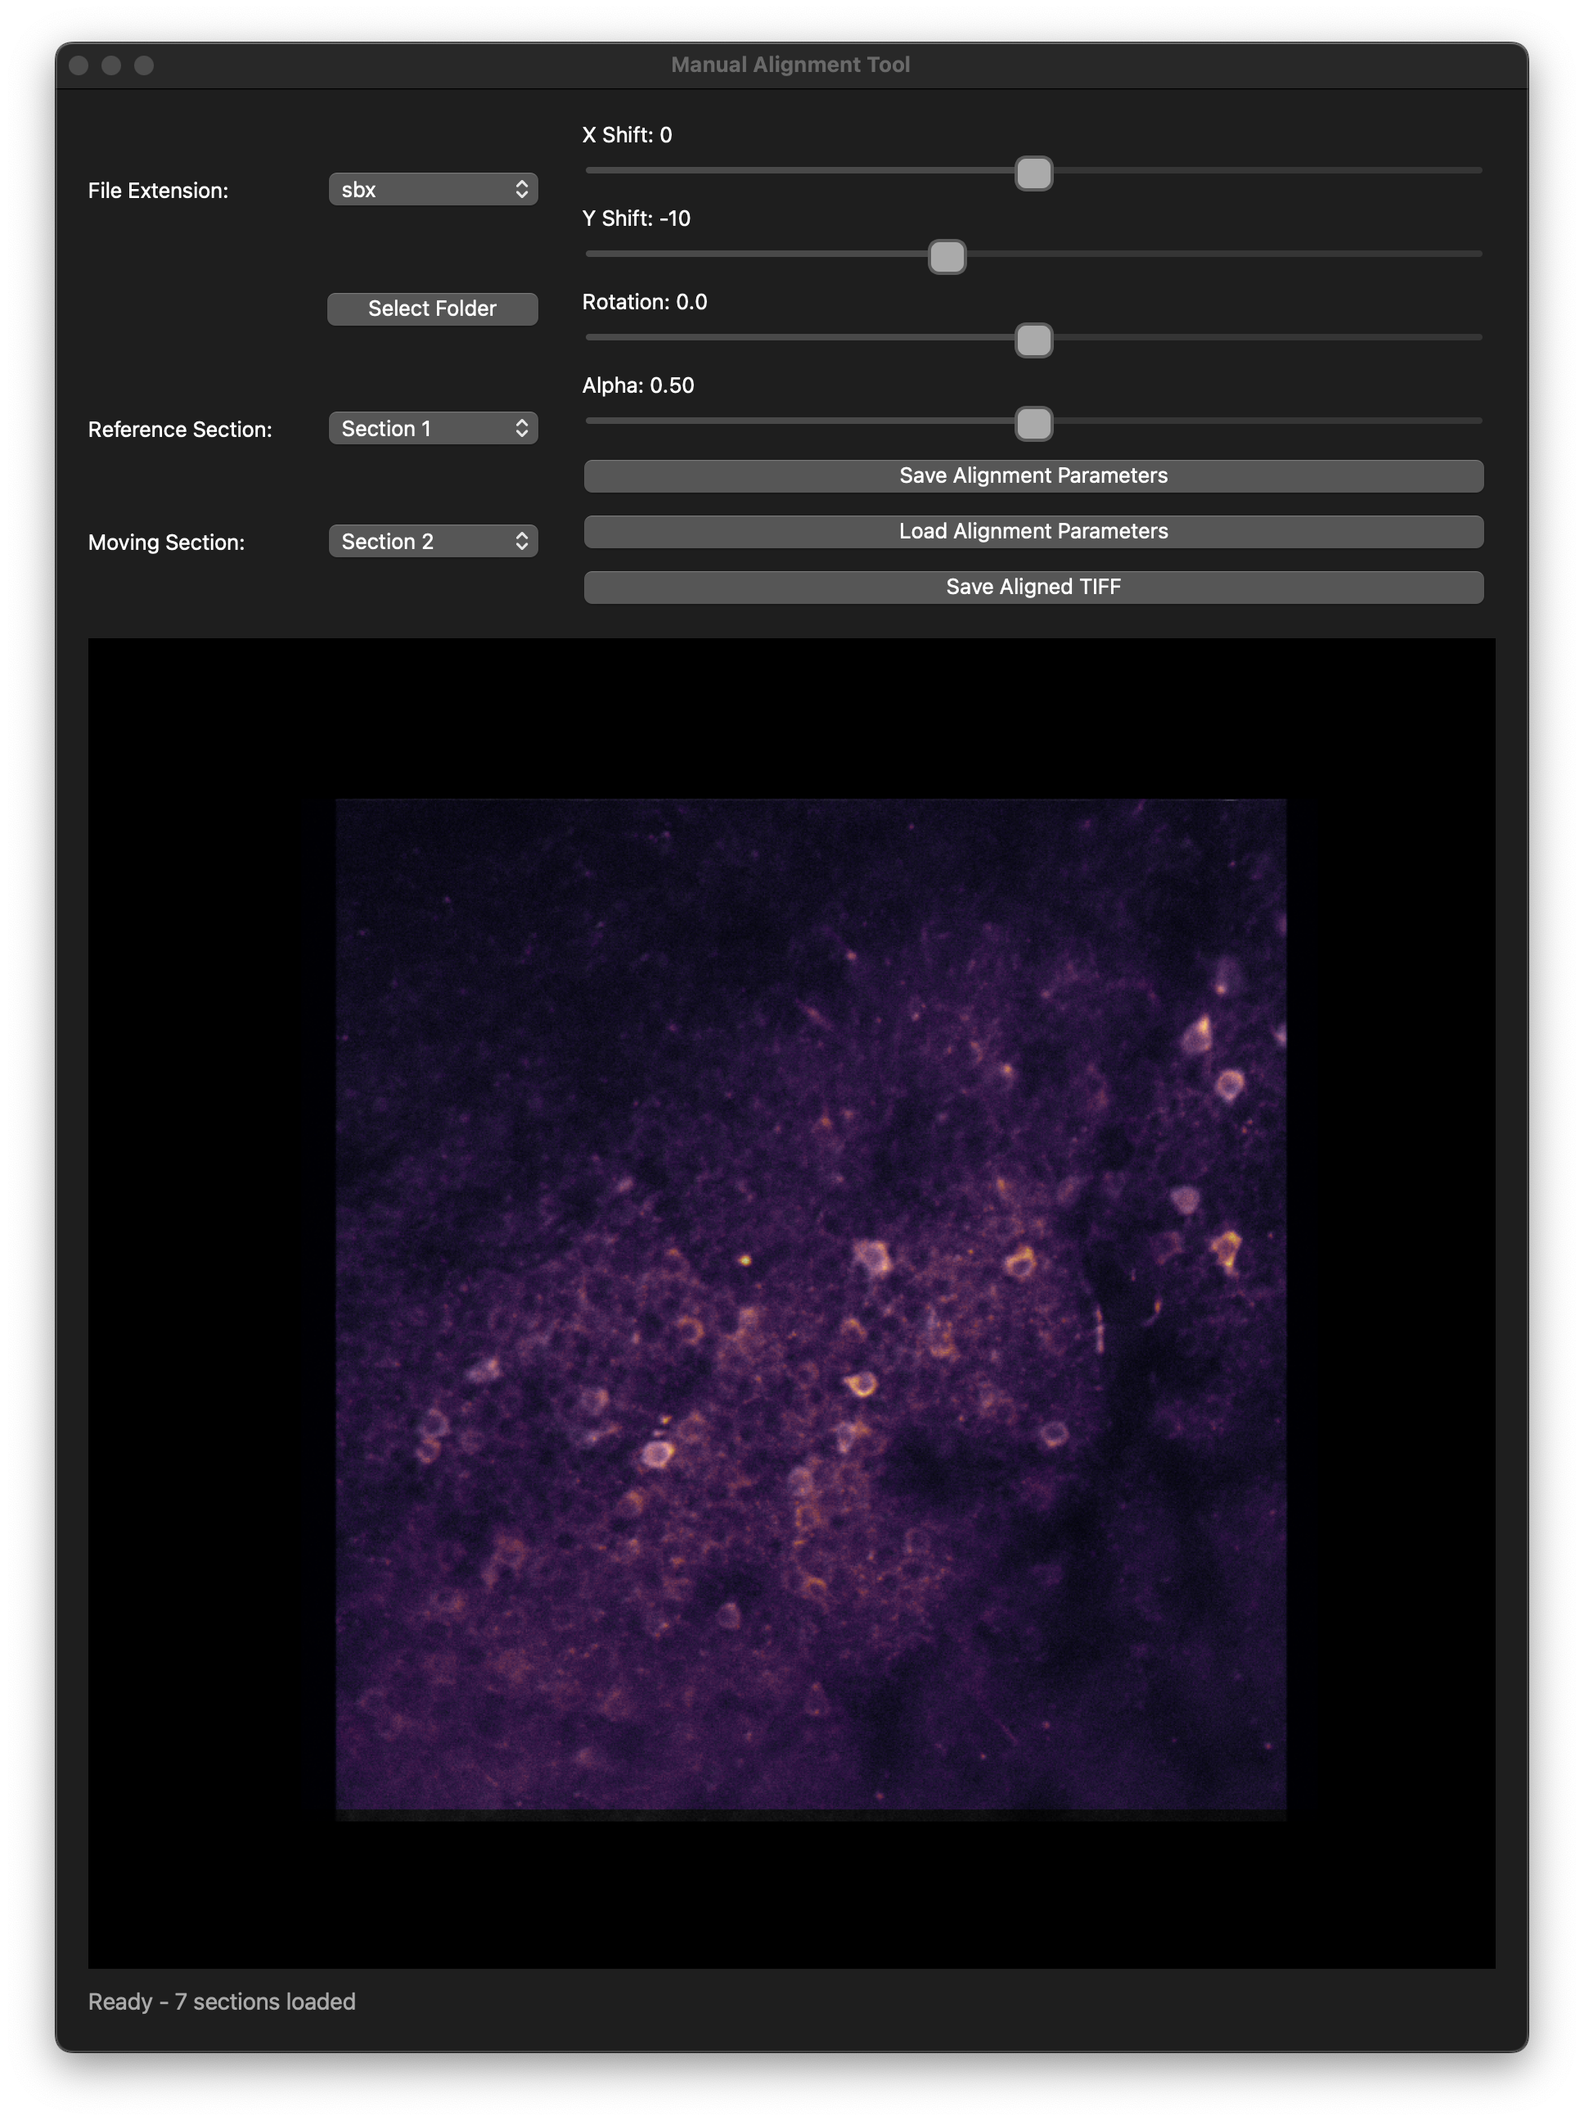
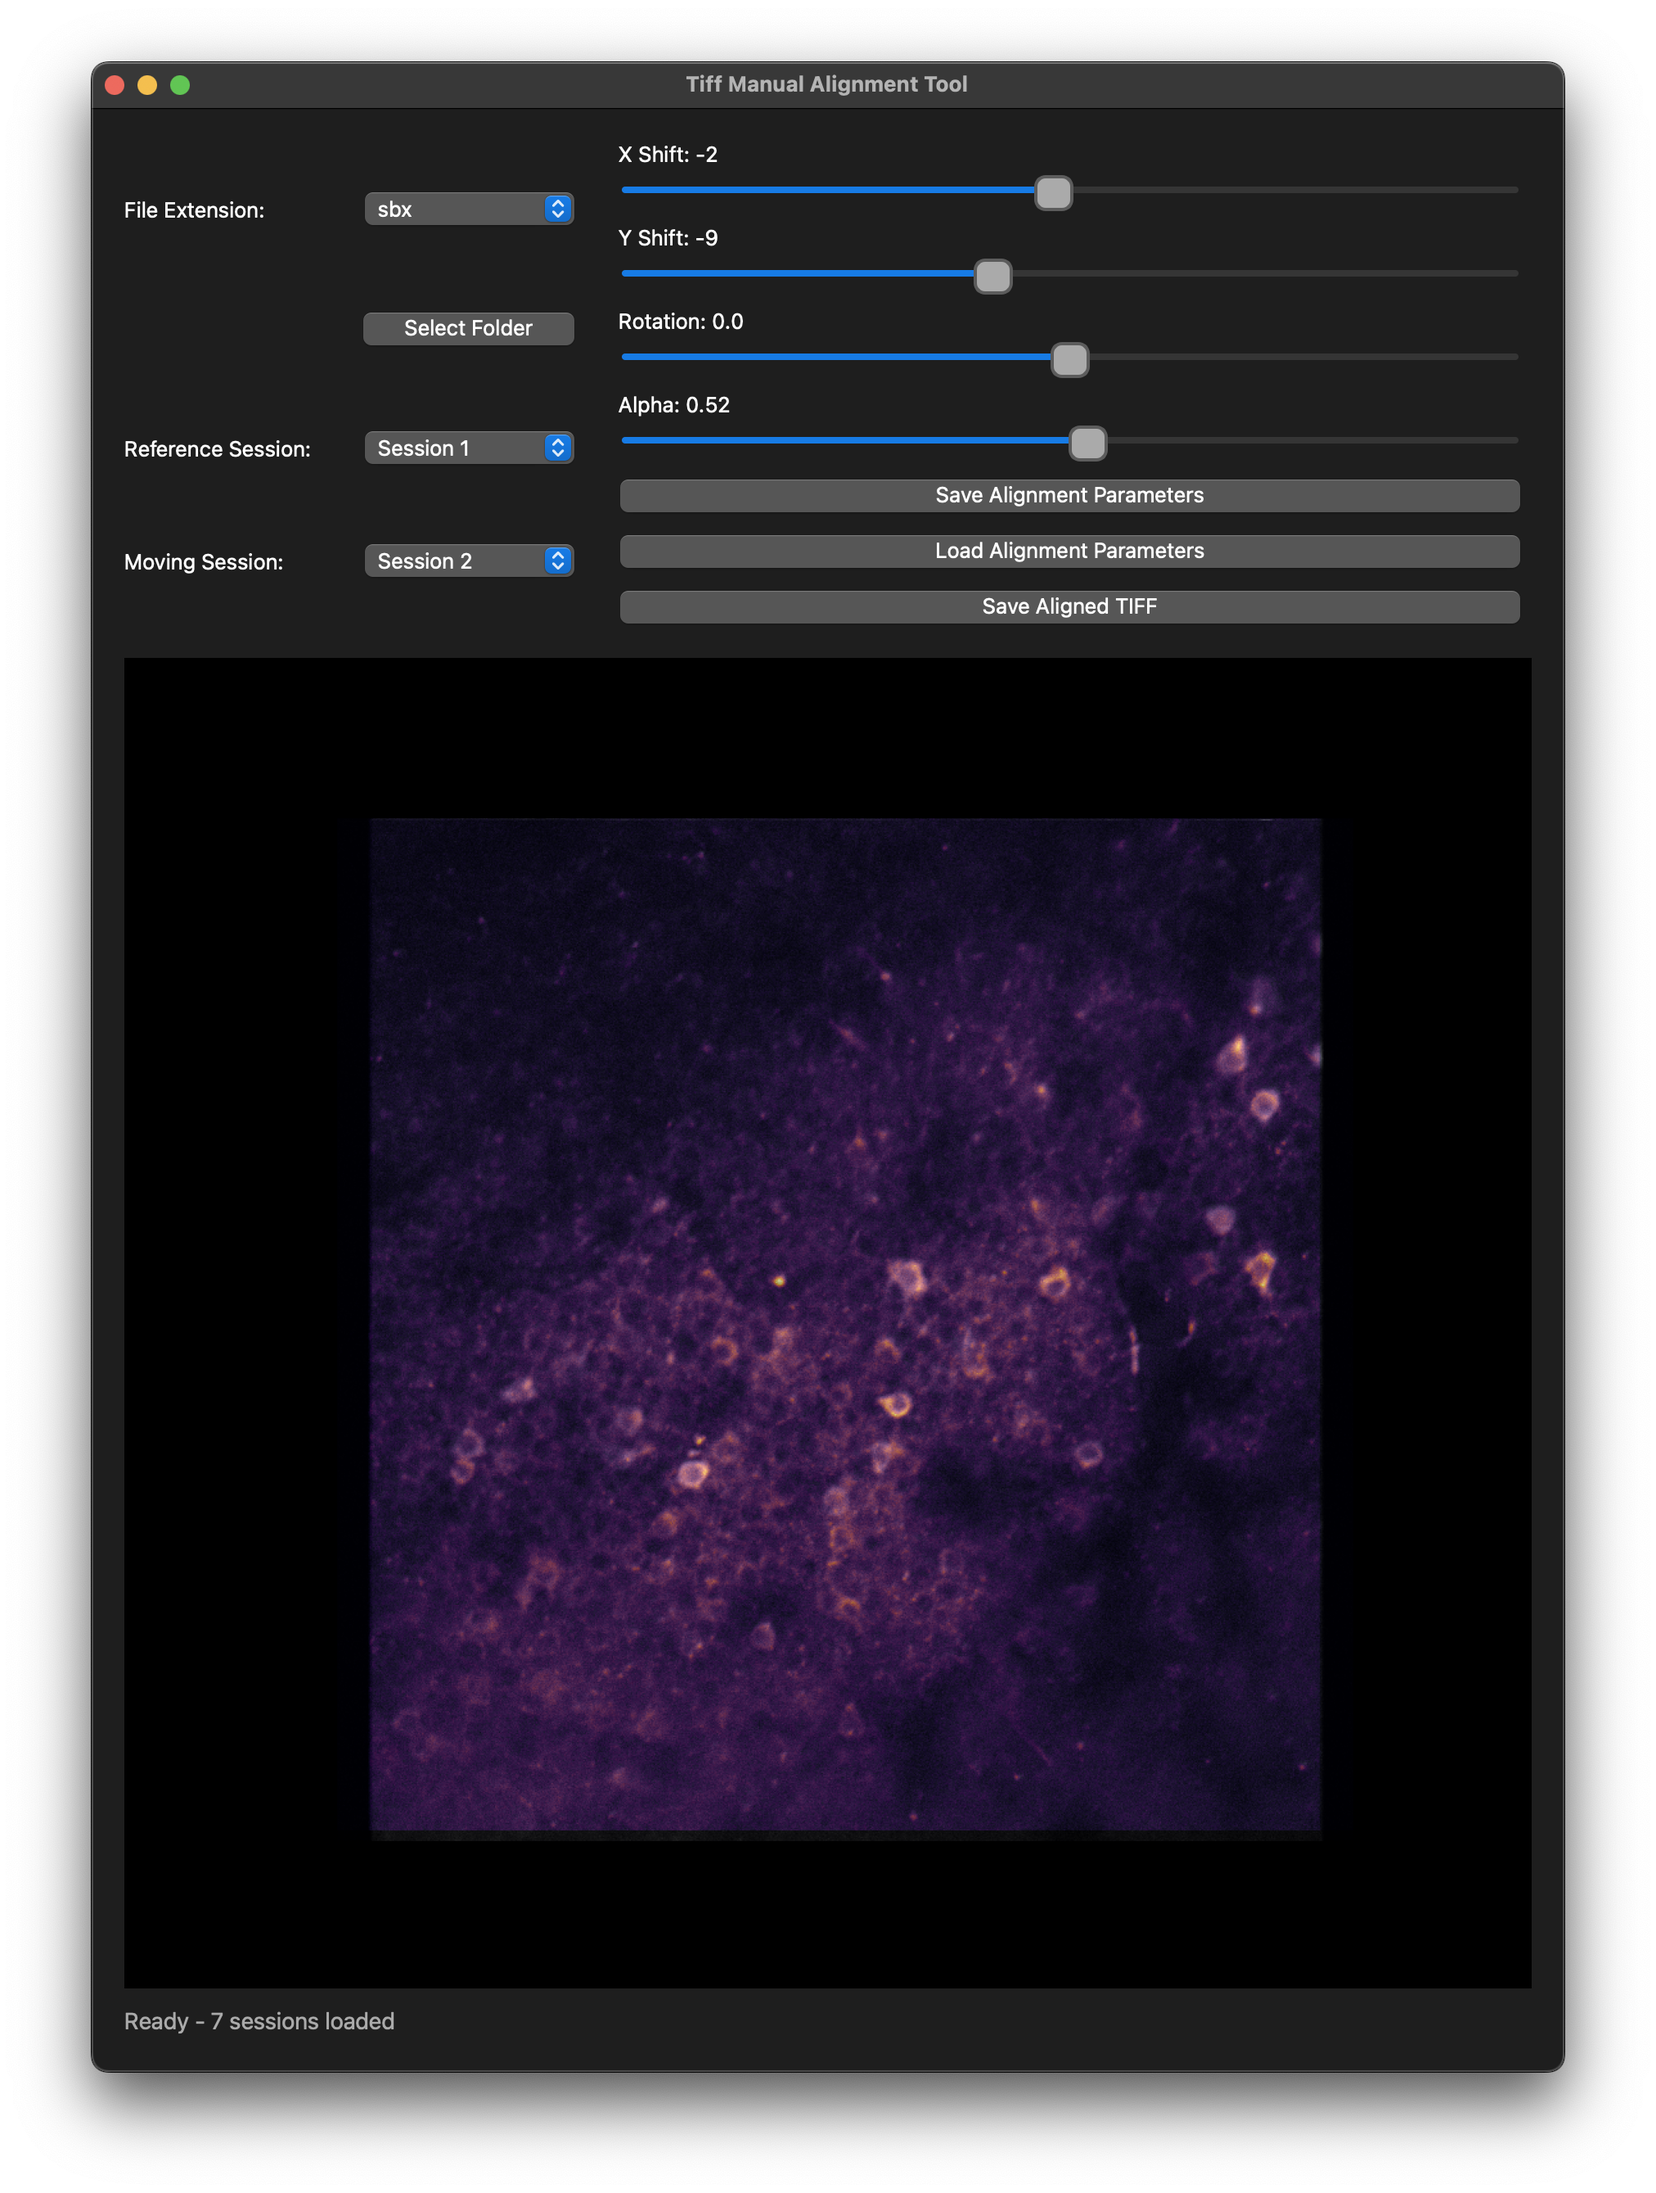
Updated README.md and new GUI_sample.png

diff --git a/tiff_manual_alignment_tool.py b/tiff_manual_alignment_tool.py
@@ -85,7 +85,7 @@ class DataLoaderThread(QThread):
                 
             self.status_updated.emit(f"Processing {len(files)} files...")
             mean_frames = []
-            n_sections = 0
+            n_sessions = 0
             n_total_frames = 0
             
             for i, file in enumerate(files):
@@ -98,7 +98,7 @@ class DataLoaderThread(QThread):
                     frames, total_frames = load_tiff_optimized(file.as_posix(), self.n_frames_averaged)
                 
                 n_total_frames += total_frames
-                n_sections += 1
+                n_sessions += 1
                 
                 # Calculate mean frame
                 mean_frame = np.mean(frames, axis=0)
@@ -110,7 +110,7 @@ class DataLoaderThread(QThread):
             
             result = {
                 'mean_frames': mean_frames,
-                'n_sections': n_sections,
+                'n_sessions': n_sessions,
                 'n_total_frames': n_total_frames
             }
             
@@ -218,14 +218,14 @@ class SaveThread(QThread):
 class AlignGUI(QWidget):
     def __init__(self):
         super().__init__()
-        self.setWindowTitle('Manual Alignment Tool')
+        self.setWindowTitle('Tiff Manual Alignment Tool')
         self.setGeometry(300, 150, 900, 1200)
-        self.section_idx = 0
+        self.session_idx = 0
         self.ref_idx = 0
         self.alpha = 0.5
         self.exten = "*.sbx"
         self.mean_frames = None
-        self.n_sections = 0
+        self.n_sessions = 0
         self.n_total_frames = 0
         self.params_all = {}
         self.loading_thread = None
@@ -261,11 +261,11 @@ class AlignGUI(QWidget):
 
         # Reference selector
         self.ref_selector = QComboBox()
-        add_row("Reference Section:", self.ref_selector)
+        add_row("Reference Session:", self.ref_selector)
 
-        # Moving section selector
-        self.section_selector = QComboBox()
-        add_row("Moving Section:", self.section_selector)
+        # Moving session selector
+        self.session_selector = QComboBox()
+        add_row("Moving Session:", self.session_selector)
 
         # --- Sliders ---
         self.x_label, self.x_slider = self.create_slider("X Shift", -50, 50, 0, sliders_layout)
@@ -376,7 +376,7 @@ class AlignGUI(QWidget):
         self.save_params_button.setEnabled(enable)
         self.load_params_button.setEnabled(enable)
         self.ref_selector.setEnabled(enable)
-        self.section_selector.setEnabled(enable)
+        self.session_selector.setEnabled(enable)
 
     # ------------------- Folder / SBX Loading -------------------
     def select_folder(self):
@@ -401,7 +401,7 @@ class AlignGUI(QWidget):
                 with open(self.pickle_path, 'rb') as f:
                     data = pickle.load(f)
                     self.mean_frames = data['mean_frames']
-                    self.n_sections = data['n_sections']
+                    self.n_sessions = data['n_sessions']
                     self.n_total_frames = data['n_total_frames']
                 self.finish_data_loading()
             except Exception as e:
@@ -438,13 +438,13 @@ class AlignGUI(QWidget):
             
         # Store the loaded data
         self.mean_frames = result['mean_frames']
-        self.n_sections = result['n_sections']
+        self.n_sessions = result['n_sessions']
         self.n_total_frames = result['n_total_frames']
         
         # Save to pickle for future use
         data = {
             'mean_frames': self.mean_frames,
-            'n_sections': self.n_sections,
+            'n_sessions': self.n_sessions,
             'n_total_frames': self.n_total_frames
         }
         
@@ -460,34 +460,34 @@ class AlignGUI(QWidget):
     def finish_data_loading(self):
         """Complete the data loading process"""
         # Prepare params_all
-        self.params_all = {i: {'x_shift': 0, 'y_shift': 0, 'rotation': 0} for i in range(self.n_sections)}
+        self.params_all = {i: {'x_shift': 0, 'y_shift': 0, 'rotation': 0} for i in range(self.n_sessions)}
 
         # Update selectors
-        self.section_selector.clear()
-        self.section_selector.addItems([f"Section {i}" for i in range(self.n_sections)])
+        self.session_selector.clear()
+        self.session_selector.addItems([f"Session {i}" for i in range(self.n_sessions)])
         self.ref_selector.clear()
-        self.ref_selector.addItems([f"Section {i}" for i in range(self.n_sections)])
+        self.ref_selector.addItems([f"Session {i}" for i in range(self.n_sessions)])
 
         # Reconnect signals
-        self.section_selector.currentIndexChanged.connect(self.change_section)
+        self.session_selector.currentIndexChanged.connect(self.change_session)
         self.ref_selector.currentIndexChanged.connect(self.change_reference)
 
         # Set defaults
-        self.section_idx = 0
+        self.session_idx = 0
         self.ref_idx = 0
-        self.section_selector.setCurrentIndex(self.section_idx)
+        self.session_selector.setCurrentIndex(self.session_idx)
         self.ref_selector.setCurrentIndex(self.ref_idx)
 
         # Enable sliders and buttons
         self.enable_controls(True)
-        self.status_label.setText(f"Ready - {self.n_sections} sections loaded")
+        self.status_label.setText(f"Ready - {self.n_sessions} sessions loaded")
         self.update_image()
 
-    # ------------------- Section Changes -------------------
-    def change_section(self, idx):
-        self.section_idx = idx
-        # Get parameters for this section, default to zeros
-        params = self.params_all.get(self.section_idx, {'x_shift': 0, 'y_shift': 0, 'rotation': 0})
+    # ------------------- Session Changes -------------------
+    def change_session(self, idx):
+        self.session_idx = idx
+        # Get parameters for this session, default to zeros
+        params = self.params_all.get(self.session_idx, {'x_shift': 0, 'y_shift': 0, 'rotation': 0})
         # Update sliders to match stored parameters
         self.x_slider.setValue(params['x_shift'])
         self.y_slider.setValue(params['y_shift'])
@@ -520,8 +520,8 @@ class AlignGUI(QWidget):
         rotation = self.rot_slider.value() / 10
         alpha = self.alpha_slider.value() / 100.0
 
-        # Update params_all for current section
-        self.params_all[self.section_idx] = {
+        # Update params_all for current session
+        self.params_all[self.session_idx] = {
             'x_shift': x_shift,
             'y_shift': y_shift,
             'rotation': rotation
@@ -529,7 +529,7 @@ class AlignGUI(QWidget):
 
         # Get images
         ref_img = self.mean_frames[self.ref_idx]
-        target_img = self.mean_frames[self.section_idx]
+        target_img = self.mean_frames[self.session_idx]
 
         # Apply rotation & shift
         rotated = rotate(target_img, rotation, reshape=False, order=0)
@@ -560,7 +560,7 @@ class AlignGUI(QWidget):
         self.progress_bar.setVisible(False)
         self.enable_controls(True)
         if success:
-            self.status_label.setText(f"{message} ({self.n_sections} sections)")
+            self.status_label.setText(f"{message} ({self.n_sessions} sessions)")
             print(message)
         else:
             self.status_label.setText(message)
@@ -579,8 +579,8 @@ class AlignGUI(QWidget):
             with open(self.params_path, 'rb') as f:
                 self.params_all = pickle.load(f)
             print(f"Loaded alignment parameters from {self.params_path}")
-            # Update sliders and image for current section
-            self.change_section(self.section_idx)
+            # Update sliders and image for current session
+            self.change_session(self.session_idx)
         else:
             print("No saved parameters found.")
 

diff --git a/README.md b/README.md
@@ -1,38 +1,35 @@
 # Manual Alignment Tool for Imaging Sessions
 
-This repository provides a **PyQt5-based GUI** for manually aligning two-photon imaging sessions (`.sbx` or `.tiff` files).  
-It allows interactive adjustment of **x/y shifts, rotation, and transparency**, and can save aligned data into a single TIFF stack.
+This repository provides a **PyQt5-based GUI** for manually aligning one-photon / two-photon imaging sessions (`.sbx` or `.tiff` files). It allows interactive adjustment of **x/y shifts, rotation, and transparency**, and can save aligned data into a single TIFF stack.
+
+Although many excellent automated motion correction algorithms exist, they are generally optimized for **within-session motion artifacts**. When working with **multiple sessions concatenated together**, shifts or rotations often occur between sessions. In these cases, we found that a manual **pre-alignment** step produces better results before applying automated motion correction. This little GUI was developed to streamline that process.
+
+![GUI Screenshot](GUI_sample.png)
 
 ---
 
-## ✨ Features
+## Features
 
-- Load and preview `.sbx` or `.tiff` files
-- Compute **mean frames** for each session (cached with pickle for faster reloads)
-- Select any session as the **reference**
+- Supports both `.sbx` and `.tiff` files
+- Compute **mean frames** for the first 100 frames of each session (cached with pickle for faster reloads)
+- Select any session as the **reference** session
 - Interactive controls for:
   - X shift  
   - Y shift  
   - Rotation  
   - Transparency blending
-- Save / load alignment parameters
-- Export aligned movies as a **multi-page TIFF**
-- Dark theme interface with live overlay preview
+- Save / load **alignment parameters**
+- Export aligned sessions as a concatenated tiff file.
+- Dark theme interface with **live overlay preview**
 
----
 
-## 📦 Installation
+## Requirements and Installation
 
 Clone this repository and install dependencies:
 
 ```bash
-git clone https://github.com/<your-username>/<repo-name>.git
-cd <repo-name>
-pip install -r requirements.txt
+git clone https://github.com/Bozhi-Wu/tiff_manual_alignment_tool.git
 ```
-
-### Requirements
-
 - Python 3.8+
 - PyQt5
 - numpy
@@ -49,51 +46,34 @@ pip install pyqt5 numpy scipy matplotlib tifffile tqdm
 
 ---
 
-## 🚀 Usage
+## Usage
 
 Run the GUI:
 
 ```bash
-python align_gui.py
+python tiff_manual_alignment_tool.py
 ```
-
-### Workflow
-1. Select a folder containing `.sbx` or `.tiff` files.
-2. Choose the **file type** (`sbx` or `tiff`).
-3. Pick a **reference section** and a **moving section**.
+1. Choose the **File Extension** (`sbx` or `tiff`).
+2. Select a **Folder** containing `.sbx` or `.tif`/`.tiff` files. 
+   - The files can exist in subfolders as `rglob` is used to find the files.
+   - For the sessions to be concatenated in the correct order, please name the files so that they can be easily sorted with the python `sorted` function.
+   - For `.sbx` files, the corresponding `.mat` metadata files are also required.
+   - For the very first time, it will read and compute and **mean frames** for the first 100 frames of each session. These will be cached into `mean_frames.pkl` for future reload.
+   - If there is an existing alignment parameter file `params_all.pkl` in the folder, it will be automatically loaded.
+3. Pick a **reference session** and a **moving session**.
+   - After picking the reference session, please only align the other sessions to the reference, without adjust the reference session itself. During the saving process, no adjustment will be made to the reference session. 
 4. Adjust alignment using the **sliders**:
    - X Shift
    - Y Shift
    - Rotation
    - Alpha (transparency)
 5. Save alignment parameters for later use.
-6. Export aligned data as a **multi-page TIFF**.
+6. Export the aligned file with `Save Aligned TIFF`.
 
 ---
 
-## 🖼 Screenshot
+## Outputs
 
-*(Add a screenshot of the GUI here, e.g. `GUI_sample.png`)*
-
-![GUI Screenshot](GUI_sample.png)
-
----
-
-## 💾 Outputs
-
-- `params_all.pkl` – stored alignment parameters  
-- `mean_frames.pkl` – cached mean frames for faster reload  
-- `tiff_manual_aligned.tiff` – exported aligned movie  
-
----
-
-## ⚠ Notes
-
-- `.sbx` files require corresponding `.mat` metadata files.  
-- Only the first **100 frames** are loaded initially for mean frame calculation (configurable).  
-
----
-
-## 📜 License
-
-MIT License (modify as needed).  
+- `params_all.pkl` – Stored alignment parameters.  
+- `mean_frames.pkl` – Cached mean frames for faster reload.  
+- `tiff_manual_aligned.tiff` – Exported aligned tiff file. 
